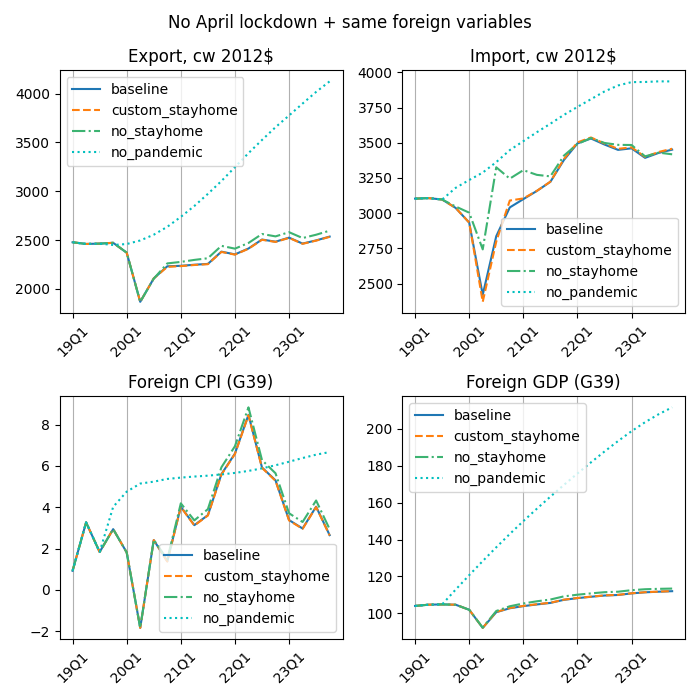
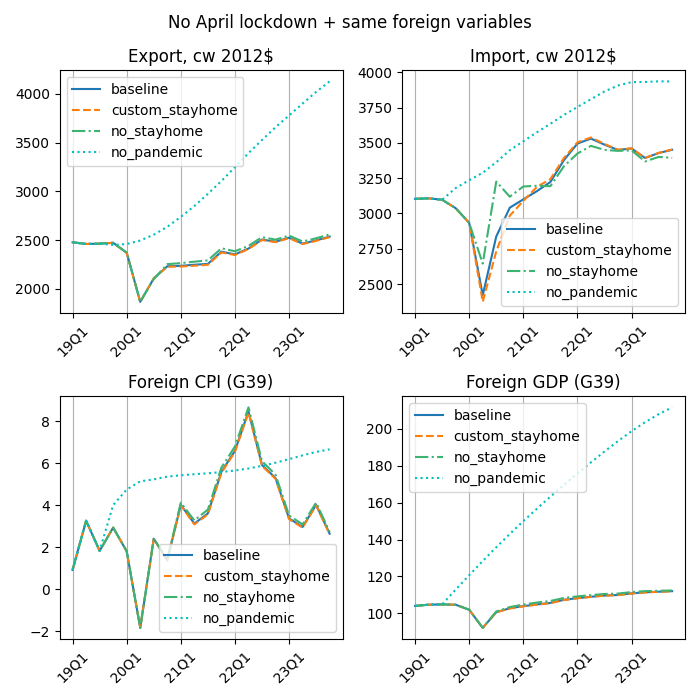
fix sm_frbus, still need to calibrate to work with sm output

diff --git a/pyfrbus/demos/sm_frbus.py b/pyfrbus/demos/sm_frbus.py
@@ -12,6 +12,7 @@ class sm_frbus():
         self.model = Frbus("/home/mlq/fed model/pyfrbus/models/model.xml")
         self.start = start
         self.end = end
+        self.real_stayhome = 8 # weeks that the stay-at-home orders is in effect in real life
         self.variables = pd.read_csv("/home/mlq/fed model/pyfrbus/demos/model architecture/model_variables_simple.csv")
         self.dynamic_variables = self.variables[(self.variables["sector"] == "Labor Market") | (self.variables["sector"] == "Household Expenditures")
                             | (self.variables["sector"] == "Aggregate Output Identities")].name
@@ -36,40 +37,42 @@ class sm_frbus():
 
         return dummy
 
-    def solve_no_stayhome(self, stay_home_total=17, start_stayhome="2020Q2", end_stayhome="2020Q2"):
+    def solve_no_stayhome(self, start_stayhome=pd.Period("2020Q2"), end_stayhome=pd.Period("2020Q2")):
         print("Creating no stay-at-home orders scenario...")
-        stay_home_total = stay_home_total  # weeks
+
         start_stayhome = start_stayhome
         end_stayhome = end_stayhome
         targ_no_stayhome, traj_no_stayhome, inst_no_stayhome = [], [], []
 
         no_stayhome_data = self.trac_non_dynamic_variables()
         # Adjust unemployment rates for stay-at-home orders
-        no_stayhome_data.loc[start_stayhome:end_stayhome, "lurnat_t"] = self.data.loc[start_stayhome:end_stayhome, 'lurnat'] * (1 - .019)**stay_home_total
-        no_stayhome_data.loc[start_stayhome:end_stayhome, "lur_t"] = self.data.loc[start_stayhome:end_stayhome, 'lur'] * (1 - .019)**stay_home_total
+        no_stayhome_data.loc[start_stayhome:end_stayhome, "lurnat_t"] = self.data.loc[start_stayhome:end_stayhome, 'lurnat'] * (1 - .019)**self.real_stayhome
+        no_stayhome_data.loc[start_stayhome:end_stayhome, "lur_t"] = self.data.loc[start_stayhome:end_stayhome, 'lur'] * (1 - .019)**self.real_stayhome
+
+        no_stayhome_data.loc[end_stayhome+1:self.end, "lurnat_t"] = self.data.loc[end_stayhome+1:self.end, 'lurnat']
+        no_stayhome_data.loc[end_stayhome+1:self.end , "lur_t"] = self.data.loc[end_stayhome+1:self.end, 'lur']
         # Update target and trajectory lists
         targ_no_stayhome += ['lur', 'lurnat']
         traj_no_stayhome += ['lur_t', 'lurnat_t']
         inst_no_stayhome += ['lur', 'lurnat']
 
         # Run mcontrol to match the target variables to their trajectories
-        no_stayhome_result = self.model.mcontrol(self.start, self.end, no_stayhome_data, targ_no_stayhome, traj_no_stayhome, inst_no_stayhome)
-        no_stayhome_result = self.model.solve(self.start, self.end, no_stayhome_result)
-        no_stayhome_result = self.model.mcontrol(self.start, self.end, no_stayhome_result, targ_no_stayhome, traj_no_stayhome, inst_no_stayhome)
+        no_stayhome_result = self.model.mcontrol(start_stayhome, end_stayhome, no_stayhome_data, targ_no_stayhome, traj_no_stayhome, inst_no_stayhome)
+        no_stayhome_result = self.model.solve(end_stayhome+1, self.end, no_stayhome_result)
+        no_stayhome_result = self.model.mcontrol(end_stayhome+1, self.end, no_stayhome_result, targ_no_stayhome, traj_no_stayhome, inst_no_stayhome)
 
         return no_stayhome_result
 
-    def cal_stayhome_anticipated_errors(self, stay_home_total=17, start_stayhome="2020Q2", end_stayhome="2020Q2"):
+    def cal_stayhome_anticipated_errors(self, start_stayhome=pd.Period("2020Q2"), end_stayhome=pd.Period("2020Q2")):
         if self.no_stayhome is None:
             raise Exception("No stayhome scenario has been solved yet. Please run solve_no_stayhome() first.")
         stayhome_aerr_data = self.no_stayhome.copy(deep=True)
 
-        stayhome_aerr_data.loc[start_stayhome:end_stayhome, "lur_t"] = stayhome_aerr_data.loc[start_stayhome:end_stayhome, 'lur'] * (1.019**stay_home_total)
-        stayhome_aerr_data.loc[start_stayhome:end_stayhome, "lurnat_t"] = stayhome_aerr_data.loc[start_stayhome:end_stayhome, 'lurnat'] * (1.019**stay_home_total)
+        stayhome_aerr_data.loc[start_stayhome:end_stayhome, "lur_t"] = stayhome_aerr_data.loc[start_stayhome:end_stayhome, 'lur'] * (1.019**self.real_stayhome)
+        stayhome_aerr_data.loc[start_stayhome:end_stayhome, "lurnat_t"] = stayhome_aerr_data.loc[start_stayhome:end_stayhome, 'lurnat'] * (1.019**self.real_stayhome)
 
         stayhome_aerr = self.model.mcontrol(start_stayhome, end_stayhome, stayhome_aerr_data, ['lur', 'lurnat'], ['lur_t', 'lurnat_t'], ['lur', 'lurnat'])
-        stayhome_aerr = self.model.solve(end_stayhome, self.end, stayhome_aerr)
-        stayhome_aerr = self.model.mcontrol(end_stayhome, self.end, stayhome_aerr, ['lur', 'lurnat'], ['lur_t', 'lurnat_t'], ['lur', 'lurnat'])
+        stayhome_aerr = self.model.solve(end_stayhome+1, self.end, stayhome_aerr)
 
         # Calculate errors for each variable
         for name in self.variables['name']:
@@ -80,7 +83,7 @@ class sm_frbus():
 
         return stayhome_aerr
 
-    def solve_custom_stayhome(self, start_lockdown_opt="2020Q2", end_lockdown_opt="2020Q2", custom_lockdown_duration=17,
+    def solve_custom_stayhome(self, start_lockdown_opt=pd.Period("2020Q2"), end_lockdown_opt=pd.Period("2020Q2"), custom_lockdown_duration=17,
                              targ_custom=None, traj_custom=None, inst_custom=None, custom_stayhome_data=None):
         if not targ_custom or not traj_custom or not inst_custom:
             print("No custom targets, trajectories and instruments provided. Using default empty values.")
@@ -89,8 +92,6 @@ class sm_frbus():
         targ_custom += ['lur', 'lurnat']
         traj_custom += ['lur_t', 'lurnat_t']
         inst_custom += ['lur', 'lurnat']
-
-        # print("traj",traj_custom)
 
         if custom_stayhome_data is None:
             print("No custom stayhome data provided. Using default values.")
@@ -102,9 +103,7 @@ class sm_frbus():
         custom_stayhome_data.loc[start_lockdown_opt:end_lockdown_opt, "lurnat_t"] = custom_stayhome_data.loc[start_lockdown_opt:end_lockdown_opt, 'lurnat'] * (1.019**custom_lockdown_duration)
 
         custom_stayhome = self.model.mcontrol(start_lockdown_opt, end_lockdown_opt, custom_stayhome_data, targ_custom, traj_custom, inst_custom)
-        custom_stayhome = self.model.solve(end_lockdown_opt, self.end, custom_stayhome)
-        # custom_stayhome = self.model.mcontrol(end_lockdown_opt, self.end, custom_stayhome, targ_no_stayhome, traj_no_stayhome, inst_no_stayhome)
-        custom_stayhome = self.model.mcontrol(start_lockdown_opt, end_lockdown_opt, custom_stayhome_data, targ_custom, traj_custom, inst_custom)
+        custom_stayhome = self.model.solve(end_lockdown_opt+1, self.end, custom_stayhome)
 
         # Apply anticipated errors
         for name in self.variables['name']:
@@ -128,7 +127,7 @@ class sm_frbus():
         df['group'] = df.index // group_size
         # Calculate the mean of each group
         df_quarter = df.groupby('group').mean()
-        df_quarter.index = pd.period_range(start='2020Q1', periods=len(df_quarter), freq='Q') # Set the index to quarters to match the FRB/US model
+        df_quarter.index = pd.period_range(start=pd.Period('2020Q1'), periods=len(df_quarter), freq='Q') # Set the index to quarters to match the FRB/US model
 
         targ_custom = ['ec', 'lhp']
         traj_custom = ['ec_t', 'lhp_t']
@@ -197,7 +196,7 @@ def main():
     obj = sm_frbus()
     sm_df = pd.read_csv("../../sir_macro/csv/td2.csv")
     custom_stayhome_data, targ_custom, traj_custom, inst_custom = obj.link_sm_frbus(sm_df)
-    obj.solve_custom_stayhome(start_lockdown_opt="2020Q2", end_lockdown_opt="2020Q2", custom_lockdown_duration=17,
+    obj.solve_custom_stayhome(start_lockdown_opt=pd.Period("2020Q2"), end_lockdown_opt=pd.Period("2020Q2"), custom_lockdown_duration=8,
                                 custom_stayhome_data=custom_stayhome_data,
                                 targ_custom=targ_custom, traj_custom=traj_custom, inst_custom=inst_custom)
 
